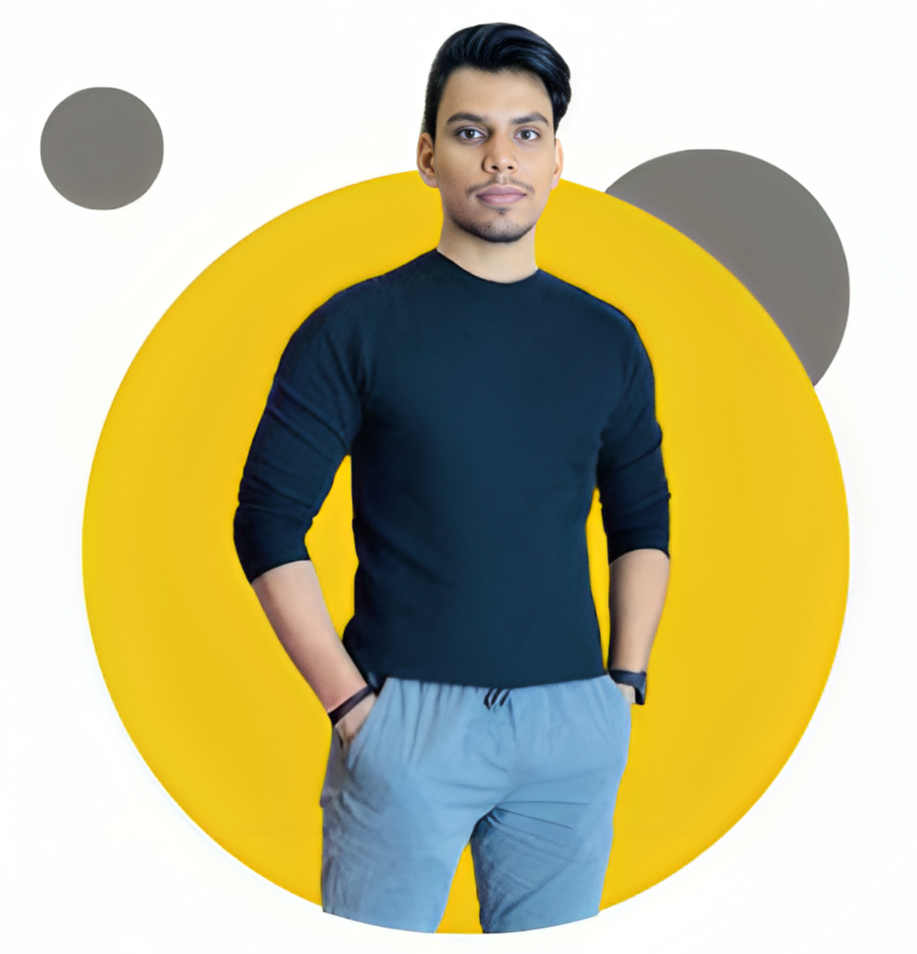
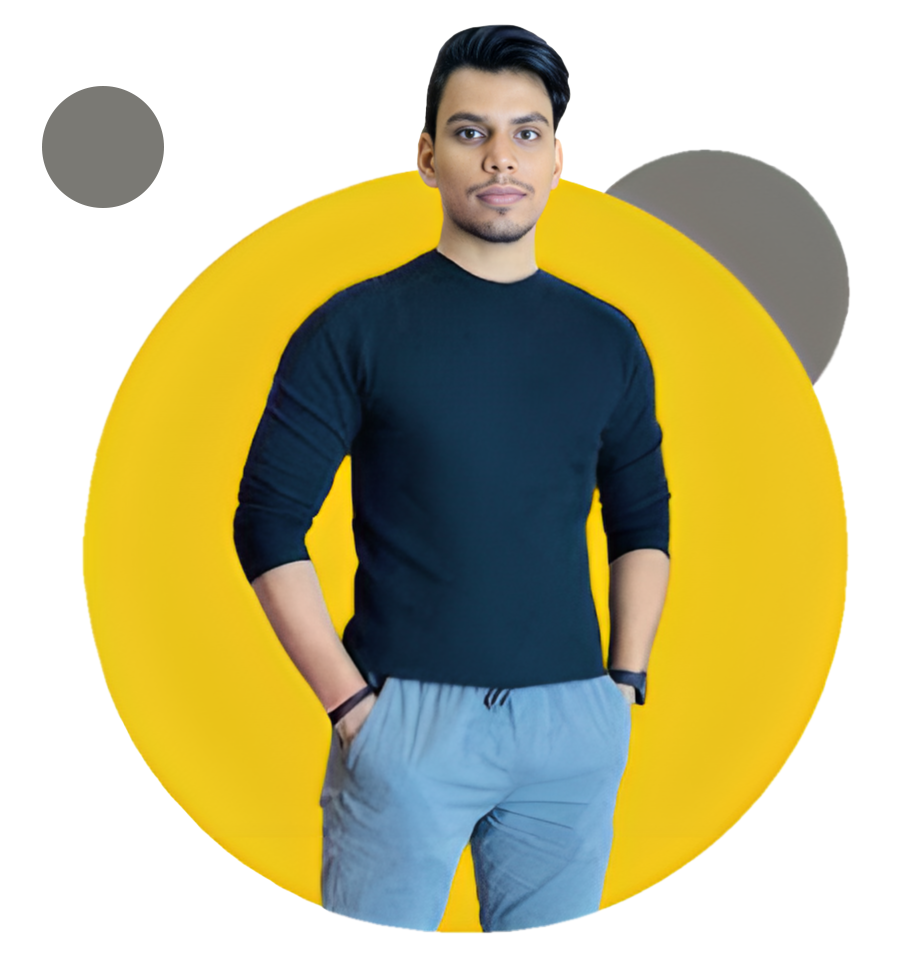
Home page Completed

diff --git a/src/components/Home.jsx b/src/components/Home.jsx
@@ -6,13 +6,21 @@ import instagram from "../assets/instagram.webp";
 import facebook from "../assets/facebook.webp";
 import twitter from "../assets/twitter.png";
 import myImage from "../assets/myImage.png";
+import FullStackDeveloper from "../assets/Full Stack Developer.png";
+import { TypeAnimation } from "react-type-animation";
 
 export default function Home() {
   return (
-    <div className="flex justify-around items-center h-[80vh] bg-[#8EFDFD]">
+    <div className="flex justify-around items-center h-[100vh] bg-[#8EFDFD] ">
       <div className="flex flex-col gap-5">
         <h1 className="text-5xl font-bold">Hello, I'm Nikhil Singh</h1>
-        <div className="text-4xl text-[#F1C604]">Web Developer</div>
+        <TypeAnimation
+          sequence={["Web Developer", 2000, "Software Engineer", 2000]}
+          wrapper="span"
+          speed={50}
+          repeat={Infinity}
+          className="text-4xl text-[#F1C604] font-bold"
+        />
         <p className="text-xl text-gray-700">
           B.Tech | CSE Branch | Abdul Kalam Technical University
         </p>
@@ -43,9 +51,14 @@ export default function Home() {
         </div>
       </div>
 
-      <div>
+      <div className="relative">
         <img className="size-96" src={myImage} alt="" />
-        <img src="" alt="" />
+        <img
+          className="size-20 absolute bottom-3 right-10 animate-spin"
+          style={{ animationDuration: "5s" }}
+          src={FullStackDeveloper}
+          alt=""
+        />
       </div>
     </div>
   );

diff --git a/src/components/Header.jsx b/src/components/Header.jsx
@@ -3,7 +3,7 @@ import moon from "../assets/moon.svg";
 
 export default function Header() {
   return (
-    <div className="flex justify-between items-center p-10 bg-[#8EFDFD] h-[20vh]">
+    <div className="flex justify-between items-center px-10  w-[100vw] h-[15vh] bg-[#8EFDFD] fixed z-10">
       <NavLink to="/">
         <div className="text-2xl font-bold">Nikhil Singh</div>
       </NavLink>
